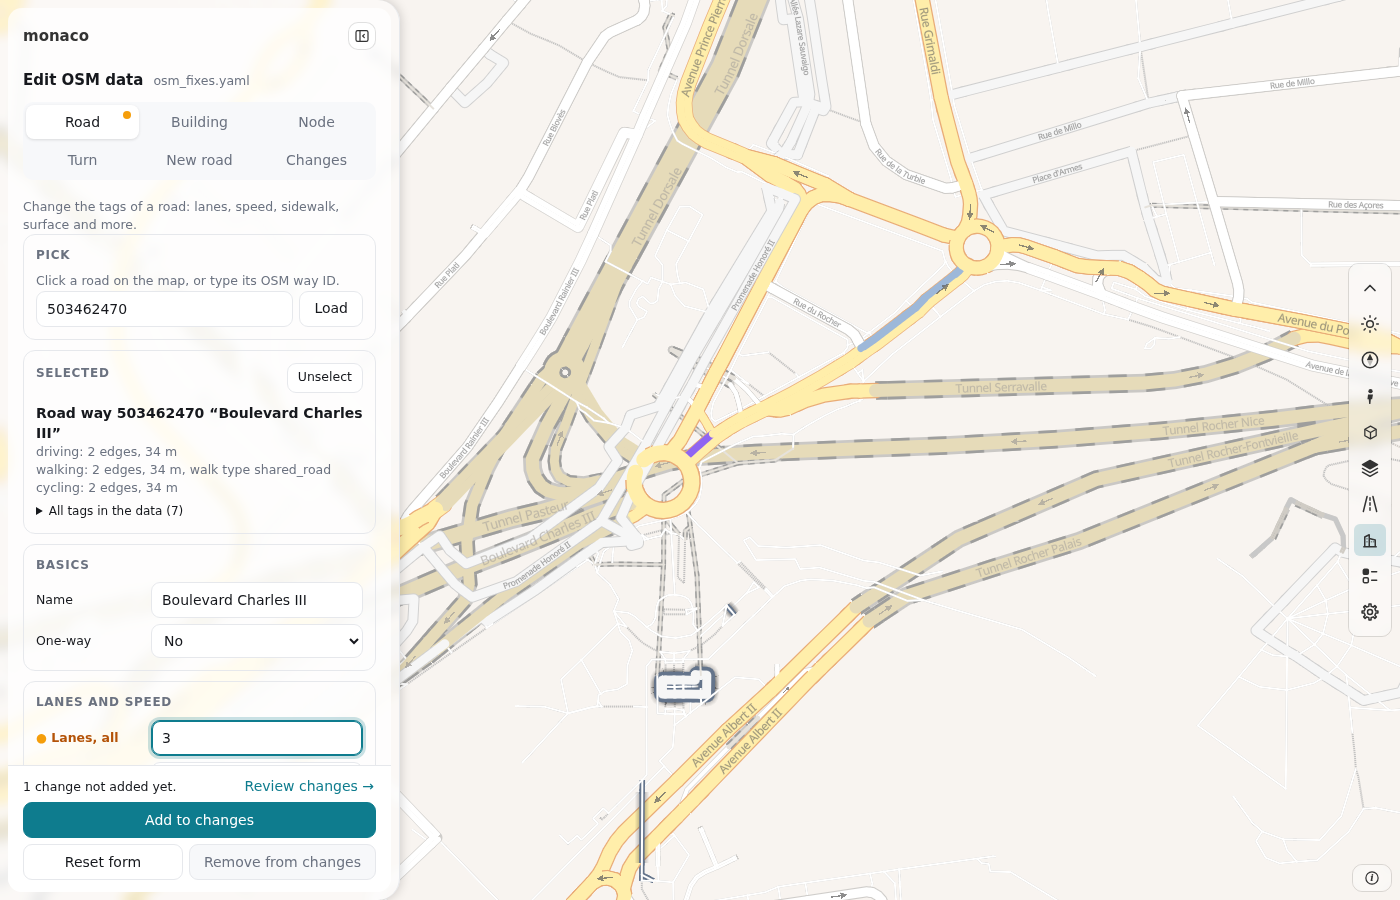
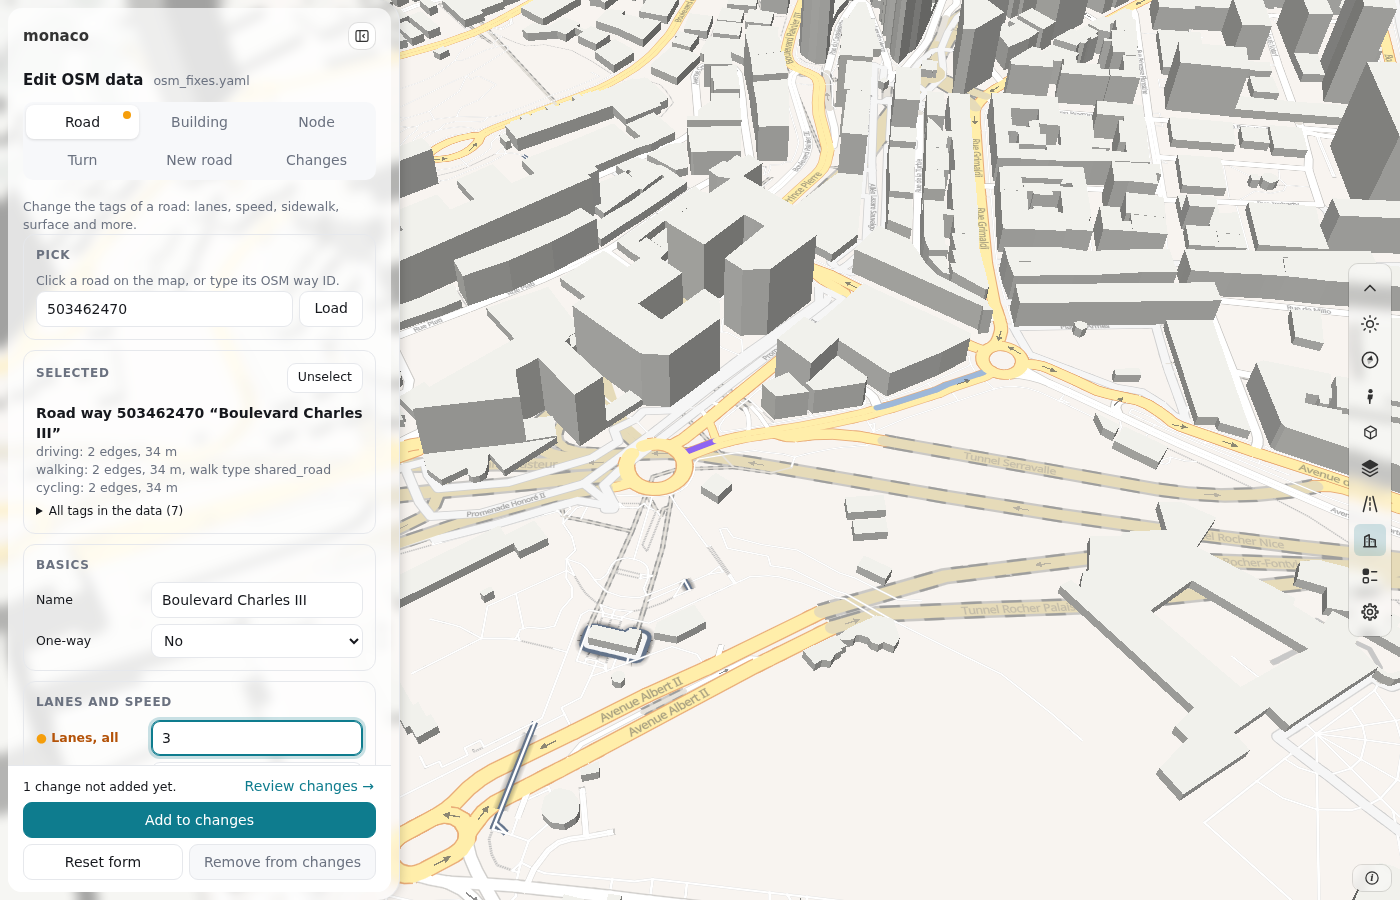
Docs: the pictures of the edit page tilted, with the buildings in 3D (Kaveh)

diff --git a/docs/guides/edit-osm-data.md b/docs/guides/edit-osm-data.md
@@ -71,7 +71,7 @@ browser, and you do not download the file: the page saves each change in the fix
 
 ### The page
 
-![The page of duckosm edit: the panel Edit OSM data at the left, the roads of the database on the OpenFreeMap Positron base map](../images/edit-page.png)
+![The page of duckosm edit: the panel Edit OSM data at the left, the roads of the database on the OpenFreeMap Positron base map, tilted, with the buildings in 3D](../images/edit-page.png)
 
 | Part | What it is |
 |---|---|
